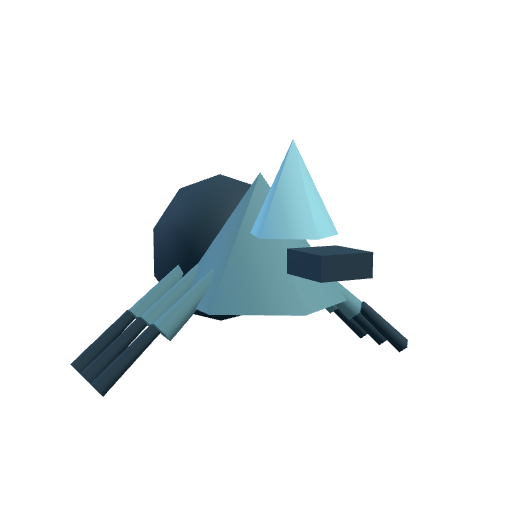
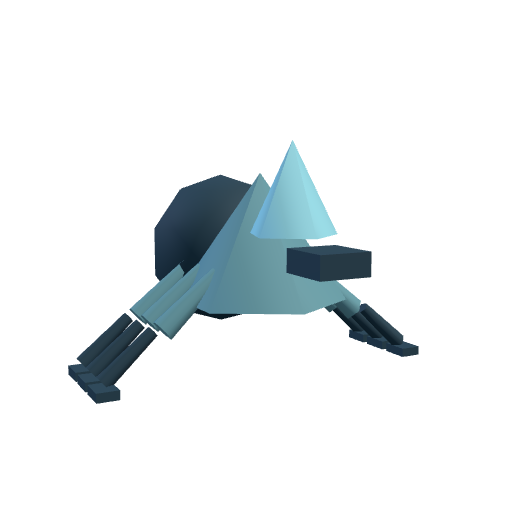
fix: verify Monster Forge fallbacks and previews

diff --git a/mengto-skills-showcase/apps/monster-forge/tests/browser/fallback.spec.ts b/mengto-skills-showcase/apps/monster-forge/tests/browser/fallback.spec.ts
@@ -30,3 +30,45 @@ test("WebGL failure retains selected asset information and retry remains idempot
   await page.getByRole("button", { name: "重试 3D 预览" }).click();
   await expect(page.locator("[data-inspector] canvas")).toHaveCount(1);
 });
+
+test("a real one-shot model creation failure recovers the selected asset through retry", async ({ page }) => {
+  await page.goto("/?forceModelFailure=1");
+  const fallback = page.locator('[data-fallback-reason="model-creation-failed"]');
+  await expect(fallback).toBeVisible();
+  await expect(fallback.getByRole("img", { name: /Ash Warden/ })).toHaveAttribute("src", "/asset-catalog/monsters/ash-warden.png");
+  await expect(fallback).toContainText("模型创建失败");
+  await expect(fallback).toContainText("运行时程序化");
+  await expect(fallback).toContainText("1.2 × 2.55 × 0.96");
+  await expect(fallback).toContainText("Idle、Walk、Attack、Hit、Death");
+
+  await page.getByRole("button", { name: /Mire Hound/ }).click();
+  await expect(fallback.getByRole("img", { name: /Mire Hound/ })).toHaveAttribute("src", "/asset-catalog/monsters/mire-hound.png");
+  await expect(fallback).toContainText("1.04 × 1.16 × 2.42");
+
+  await page.locator("[data-retry-preview]").click();
+  await expect(page.locator(".scene-fallback")).toBeHidden();
+  await expect(page.getByRole("status")).toContainText("Mire Hound");
+  await expect(page.getByRole("status")).toContainText("实时模型已就绪");
+  await expect(page.locator("[data-inspector] canvas")).toHaveCount(1);
+  await expect.poll(() => page.evaluate(() => window.__monsterForgeDiagnostics?.())).toMatchObject({
+    hasRendered: true,
+    rootCount: 1,
+    selectedMonsterId: "mire-hound",
+  });
+  const nonEmptyPixels = await page.locator("[data-inspector] canvas").evaluate((node: HTMLCanvasElement) => {
+    const context = node.getContext("webgl2") ?? node.getContext("webgl");
+    if (!context) return 0;
+    const pixels = new Uint8Array(node.width * node.height * 4);
+    context.readPixels(0, 0, node.width, node.height, context.RGBA, context.UNSIGNED_BYTE, pixels);
+    let nonEmpty = 0;
+    for (let index = 0; index < pixels.length; index += 4) {
+      if ((pixels[index] ?? 0) + (pixels[index + 1] ?? 0) + (pixels[index + 2] ?? 0) > 0) nonEmpty += 1;
+    }
+    return nonEmpty;
+  });
+  expect(nonEmptyPixels).toBeGreaterThan(100);
+
+  await page.getByRole("button", { name: /Ash Warden/ }).click();
+  await page.getByRole("button", { name: /Mire Hound/ }).click();
+  await expect(page.locator("[data-inspector] canvas")).toHaveCount(1);
+});

diff --git a/mengto-skills-showcase/apps/monster-forge/src/main.ts b/mengto-skills-showcase/apps/monster-forge/src/main.ts
@@ -1,4 +1,4 @@
-import { monsters } from "@showcase/game-assets";
+import { createProceduralMonster, monsters } from "@showcase/game-assets";
 import { createInspectorStore } from "./state/inspector-store";
 import {
   createInspectorScene,
@@ -17,6 +17,7 @@ declare global { interface Window { __monsterForgeDiagnostics?: () => InspectorS
 const query = new URLSearchParams(window.location.search);
 const captureMode = query.get("capture") === "1";
 const forcedWebglFailure = query.get("forceWebglFailure") === "1";
+let remainingModelFailures = query.get("forceModelFailure") === "1" ? 1 : 0;
 const monsterById = new Map(monsters.map((monster) => [monster.id, monster]));
 const reviewedId = query.get("review");
 const initialId = reviewedId && monsterById.has(reviewedId) ? reviewedId : "ash-warden";
@@ -61,6 +62,14 @@ const showSceneStatus = (next: SceneStatus) => {
 };
 
 function initializeScene(): void {
+  if (scene && unavailableState?.reason === "model-creation-failed") {
+    inspector.fallback.hidden = true;
+    unavailableState = undefined;
+    sceneStatus = "loading";
+    scene.setMonster(selectedMonster());
+    scene.setState(store.getState());
+    return;
+  }
   scene?.dispose();
   scene = undefined;
   inspector.fallback.hidden = true;
@@ -72,6 +81,13 @@ function initializeScene(): void {
   try {
     scene = createInspectorScene(inspector.canvas, {
       capture: captureMode,
+      createMonster: (monster) => {
+        if (remainingModelFailures > 0) {
+          remainingModelFailures -= 1;
+          throw new Error("模型创建失败：确定性审阅夹具已触发一次。");
+        }
+        return createProceduralMonster(monster);
+      },
       onReady: () => showSceneStatus("ready"),
       onUnavailable: (error, kind) => unavailable(kind, error),
       onActionState: (actionState) => {

diff --git a/mengto-skills-showcase/apps/monster-forge/src/scene/create-inspector-scene.ts b/mengto-skills-showcase/apps/monster-forge/src/scene/create-inspector-scene.ts
@@ -60,6 +60,7 @@ interface InspectorSceneOptions {
   onUnavailable(error: unknown, kind: InspectorUnavailableKind): void;
   onActionState?(state: InspectorActionStatus): void;
   capture?: boolean;
+  createMonster?(monster: MonsterDefinition): MonsterInstance;
 }
 
 export function getFrameDelta(
@@ -303,7 +304,7 @@ export function createInspectorScene(
       if (disposed || failed) return;
       try {
         removeCurrent();
-        current = createProceduralMonster(monster);
+        current = (options.createMonster ?? createProceduralMonster)(monster);
         overlays = createReviewOverlays(current);
         selectedMonsterId = monster.id;
         current.root.position.y = -monster.bounds.groundOffset;
@@ -321,9 +322,12 @@ export function createInspectorScene(
         readyForCurrent = false;
         actionRevision = -1;
         currentPaused = false;
+        lastError = null;
         placeCamera();
       } catch (error) {
-        fail(error);
+        removeCurrent();
+        lastError = errorMessage(error);
+        options.onUnavailable(error, "model-creation-failed");
       }
     },
     setState(state) {

diff --git a/mengto-skills-showcase/packages/game-assets/tests/monster-content.test.ts b/mengto-skills-showcase/packages/game-assets/tests/monster-content.test.ts
@@ -33,12 +33,13 @@ describe("monster catalog", () => {
     ]);
   });
 
-  it("records the shipped runtime factory and the delivered PNG that now needs recapture", () => {
+  it("records the shipped runtime factory and its recaptured delivered PNG", () => {
     for (const monster of monsters) {
       expect(monster.deliveryStatus).toBe("shipped");
       expect(monster.source.description.startsWith("Project-authored Three.js geometry")).toBe(true);
-      expect(monster.source.description).toContain("runtime factory shipped; catalog PNG recapture required");
-      expect(monster.source.description).toContain("previewPath remains delivered from the previous procedural revision");
+      expect(monster.source.description).toContain("matching transparent catalog PNG delivered from this procedural runtime capture");
+      expect(monster.source.description).toContain("previewPath was recaptured from the updated runtime");
+      expect(monster.source.description).not.toContain("recapture required");
     }
   });
 

diff --git a/mengto-skills-showcase/packages/game-assets/tests/procedural-monster.test.ts b/mengto-skills-showcase/packages/game-assets/tests/procedural-monster.test.ts
@@ -67,7 +67,7 @@ describe("createProceduralMonster", () => {
     expect(instance.root.userData.provenance).toMatchObject({
       type: "procedural",
       factoryId: definition.factoryId,
-      source: "runtime factory shipped; catalog PNG recapture required after grounding and animation revision",
+      source: "runtime factory shipped; matching transparent catalog PNG delivered from this procedural runtime capture",
     });
     expect(instance.root.userData.source).not.toContain("catalog PNG not shipped");
     expect(instance.root.userData.review).toMatchObject({
@@ -76,7 +76,7 @@ describe("createProceduralMonster", () => {
       socketNames: definition.sockets.map(({ name }) => name),
       dimensions: definition.bounds,
       groundOffset: definition.bounds.groundOffset,
-      catalogPreviewStatus: "recapture-required",
+      catalogPreviewStatus: "delivered-captured",
       importedFiles: "none",
     });
     expect(instance.root.children.map((child) => child.name)).toContain("motion");

diff --git a/mengto-skills-showcase/apps/monster-forge/tests/helpers/read-png-metadata.ts b/mengto-skills-showcase/apps/monster-forge/tests/helpers/read-png-metadata.ts
@@ -7,15 +7,17 @@ export async function readPngMetadata(path: string) {
   const packageRoot = fileURLToPath(new URL("../../", import.meta.url));
   const png = PNG.sync.read(await readFile(resolve(packageRoot, path)));
   const alphaAt = (x: number, y: number) => png.data[(png.width * y + x) * 4 + 3];
+  const cornerAlphas = [
+    alphaAt(0, 0),
+    alphaAt(png.width - 1, 0),
+    alphaAt(0, png.height - 1),
+    alphaAt(png.width - 1, png.height - 1),
+  ];
   return {
     width: png.width,
     height: png.height,
     colorType: png.colorType === 6 ? "RGBA" : `color-type-${png.colorType}`,
-    hasTransparentCorner: [
-      alphaAt(0, 0),
-      alphaAt(png.width - 1, 0),
-      alphaAt(0, png.height - 1),
-      alphaAt(png.width - 1, png.height - 1),
-    ].some((alpha) => alpha === 0),
+    hasTransparentCorner: cornerAlphas.some((alpha) => alpha === 0),
+    transparentCornerCount: cornerAlphas.filter((alpha) => alpha === 0).length,
   };
 }

diff --git a/mengto-skills-showcase/packages/game-assets/src/monsters/create-procedural-monster.ts b/mengto-skills-showcase/packages/game-assets/src/monsters/create-procedural-monster.ts
@@ -117,7 +117,7 @@ export function createProceduralMonster(definition: MonsterDefinition): MonsterI
     height: definition.collider.height,
   };
 
-  const source = "runtime factory shipped; catalog PNG recapture required after grounding and animation revision";
+  const source = "runtime factory shipped; matching transparent catalog PNG delivered from this procedural runtime capture";
   root.userData = {
     procedural: true,
     factoryId: definition.factoryId,
@@ -130,7 +130,7 @@ export function createProceduralMonster(definition: MonsterDefinition): MonsterI
       socketNames: definition.sockets.map(({ name }) => name),
       dimensions: definition.bounds,
       groundOffset: definition.bounds.groundOffset,
-      catalogPreviewStatus: "recapture-required",
+      catalogPreviewStatus: "delivered-captured",
       importedFiles: "none",
     },
   };

diff --git a/mengto-skills-showcase/packages/game-assets/src/monsters/definitions.ts b/mengto-skills-showcase/packages/game-assets/src/monsters/definitions.ts
@@ -5,9 +5,9 @@ import {
 
 const actions = ["Idle", "Walk", "Attack", "Hit", "Death"] as const;
 const shippedSource = (factory: string, silhouette: string) =>
-  "Project-authored Three.js geometry; runtime factory shipped; catalog PNG recapture required after grounding and animation revision. " +
+  "Project-authored Three.js geometry; runtime factory shipped; matching transparent catalog PNG delivered from this procedural runtime capture. " +
   `The ${factory} runtime recipe creates the ${silhouette}. ` +
-  "The previewPath remains delivered from the previous procedural revision and must be recaptured from the updated runtime.";
+  "The previewPath was recaptured from the updated runtime with the same fixed pose, camera, and lighting.";
 
 const freezeMonster = (monster: MonsterDefinition): MonsterDefinition => {
   Object.freeze(monster.source);

diff --git a/mengto-skills-showcase/apps/monster-forge/tests/catalog-previews.test.ts b/mengto-skills-showcase/apps/monster-forge/tests/catalog-previews.test.ts
@@ -5,7 +5,7 @@ import { readPngMetadata } from "./helpers/read-png-metadata";
 describe("catalog preview delivery", () => {
   it.each(monsters)("has a 512x512 transparent catalog preview for $id", async ({ previewPath }) => {
     const metadata = await readPngMetadata(`public${previewPath}`);
-    expect(metadata).toMatchObject({ width: 512, height: 512, colorType: "RGBA" });
+    expect(metadata).toMatchObject({ width: 512, height: 512, colorType: "RGBA", transparentCornerCount: 4 });
     expect(metadata.hasTransparentCorner).toBe(true);
   });
 });

diff --git a/mengto-skills-showcase/apps/monster-forge/docs/VALIDATION.md b/mengto-skills-showcase/apps/monster-forge/docs/VALIDATION.md
@@ -63,6 +63,14 @@ node scripts/check-selected-skills.mjs
 git diff --check
 ```
 
+## 最终审查修复：目录重捕获与模型创建故障
+
+- 四张目录 PNG 已从当前程序化运行时重新捕获；使用各自 `?review=<id>&capture=1` 路由、固定 Idle 姿态、相机、灯光和透明背景。路径与名称不变，均为 `512 × 512` RGBA，并保留透明角。
+- manifest 与运行时 provenance 现在都记录为 `delivered-captured`：目录 PNG 来自同一程序化模型的当前运行时捕获，不再标记为等待重捕获。
+- `?forceModelFailure=1` 是一次性、确定性的模型构建故障夹具。首次真实模型工厂调用抛错并进入 `model-creation-failed` 边界；回退显示同一资产的 PNG、名称、程序化来源、尺寸、动作和中文具体原因。
+- 故障状态下切换目录卡会同步更新回退元数据。点击“重试 3D 预览”会消费故障并复用同一渲染场景恢复真实 3D：回退隐藏、像素非空、选中资产正确，页面始终只有一个 canvas。`forceWebglFailure=1` 的独立回退旅程继续通过。
+- 本节不预填最终候选 SHA；精确提交只在提交实际生成后由交付报告引用。
+
 ## 已批准的非目标
 
 - 不部署、不发布，也不声明生产线上已验证。
